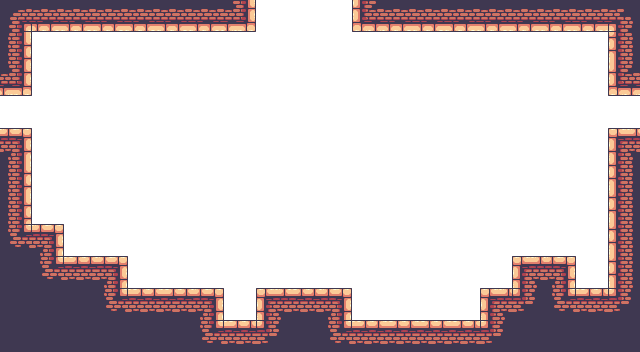
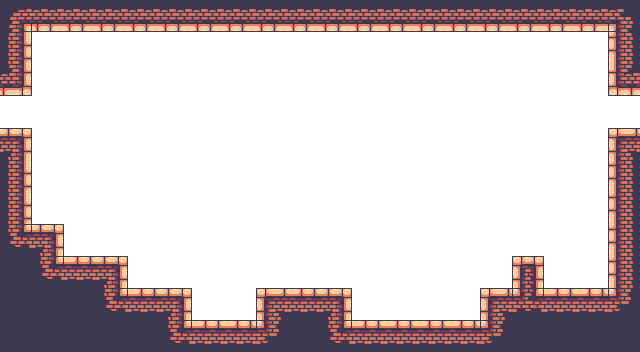
feat: update level & disagble debug render by default

Changed region(s): [[0.3438, 0.0, 0.5938, 0.0938], [0.25, 0.8125, 0.375, 1.0], [0.8125, 0.7188, 0.9062, 0.9062]]

diff --git a/src/index.ts b/src/index.ts
@@ -24,6 +24,8 @@ import { createEnemy } from "./entities/enemy";
 import { BombSystem } from "./systems/BombSystem";
 import { HealthSystem } from "./systems/HealthSystem";
 
+const DEBUG = process.env.DEBUG === "true";
+
 const canvas = document.querySelector("canvas");
 
 if (!canvas) {
@@ -46,10 +48,6 @@ const game: Game = {
 
 function start(ecs: ECS) {
 	const loop = (time: number) => {
-		if (!game.player) {
-			return;
-		}
-
 		ecs?.tick(time);
 		requestAnimationFrame(loop);
 	};
@@ -107,7 +105,10 @@ function main() {
 	ecs.register(PhysicsSystem(ecs));
 
 	ecs.register(RenderSystem(ecs));
-	ecs.register(DebugRenderSystem(ecs));
+
+	if (DEBUG) {
+		ecs.register(DebugRenderSystem(ecs));
+	}
 
 	start(ecs);
 }

diff --git a/src/systems/InputSystem.ts b/src/systems/InputSystem.ts
@@ -9,6 +9,9 @@ document.ondblclick = function(e) {
 const pressed = new Map<string, boolean>();
 
 document.addEventListener("keydown", (evt) => {
+	if (evt.code === "KeyR") {
+		window.location.reload();
+	}
 	pressed.set(evt.code, true);
 });
 

diff --git a/src/systems/EnemyAiSystem.ts b/src/systems/EnemyAiSystem.ts
@@ -44,7 +44,7 @@ export const EnemyAiSystem = (
 				return;
 			}
 
-			if (willAttack && Math.random() > 0.25) {
+			if (willAttack && Math.random() > 0.6) {
 				enemySprite.variant = SpriteVariant.ATTACKING;
 			}
 
